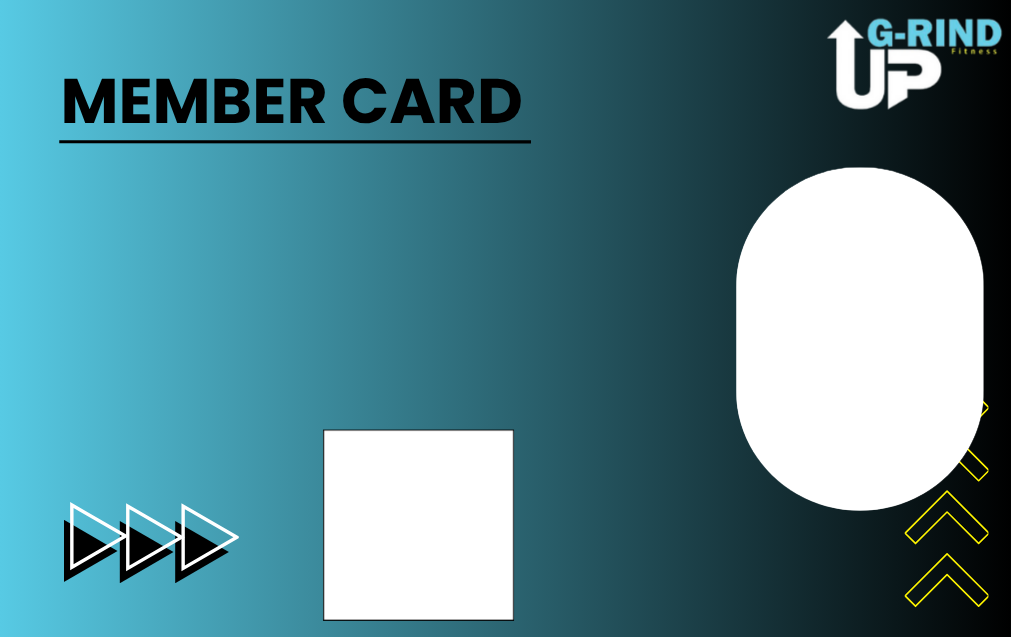
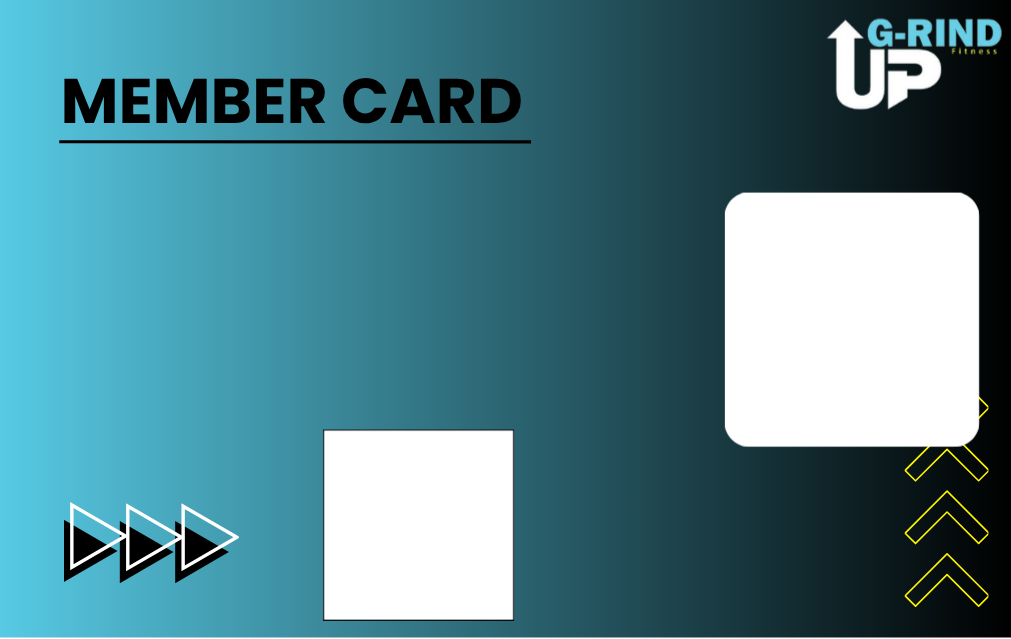
update data member

diff --git a/app/Http/Controllers/TransaksiController.php b/app/Http/Controllers/TransaksiController.php
@@ -417,8 +417,8 @@ class TransaksiController extends BaseController
             $fotoPath = storage_path('app/public/' . $member->foto_member);
 
             if (file_exists($fotoPath)) {
-                $foto = $manager->read($fotoPath)->resize(200, 220);
-                $image->place($foto, 'top-right', 50, 230);
+                $foto = $manager->read($fotoPath)->resize(225, 220);
+                $image->place($foto, 'top-right', 46, 211);
             }
         }
 
@@ -459,8 +459,8 @@ class TransaksiController extends BaseController
             });
 
             // Nilai
-            $image->text($value, $startX + $maxLabelWidth + 20, $startY, function ($font) use ($fontRegular) {
-                $font->filename($fontRegular);
+            $image->text($value, $startX + $maxLabelWidth + 20, $startY, function ($font) use ($fontBold) {
+                $font->filename($fontBold);
                 $font->size(20);
                 $font->color('#f0f0f0');
             });

diff --git a/resources/views/admin/member/index.blade.php b/resources/views/admin/member/index.blade.php
@@ -503,8 +503,8 @@
                         class: 'mb-kolom-tanggal text-left align-content-center',
                         render: function(data, type, row) {
                             return `
-                                <span class="badge text-uppercase bg-${data === 'Aktiv' ? 'success' : 'danger'}">
-                                    ${data === 'Aktiv' ? 'Aktiv' : 'Non Aktiv'}
+                                <span class="badge text-uppercase bg-${data === 'aktif' ? 'success' : 'danger'}">
+                                    ${data === 'aktif' ? 'Aktiv' : 'Non Aktiv'}
                                 </span>
                             `;
                         }
